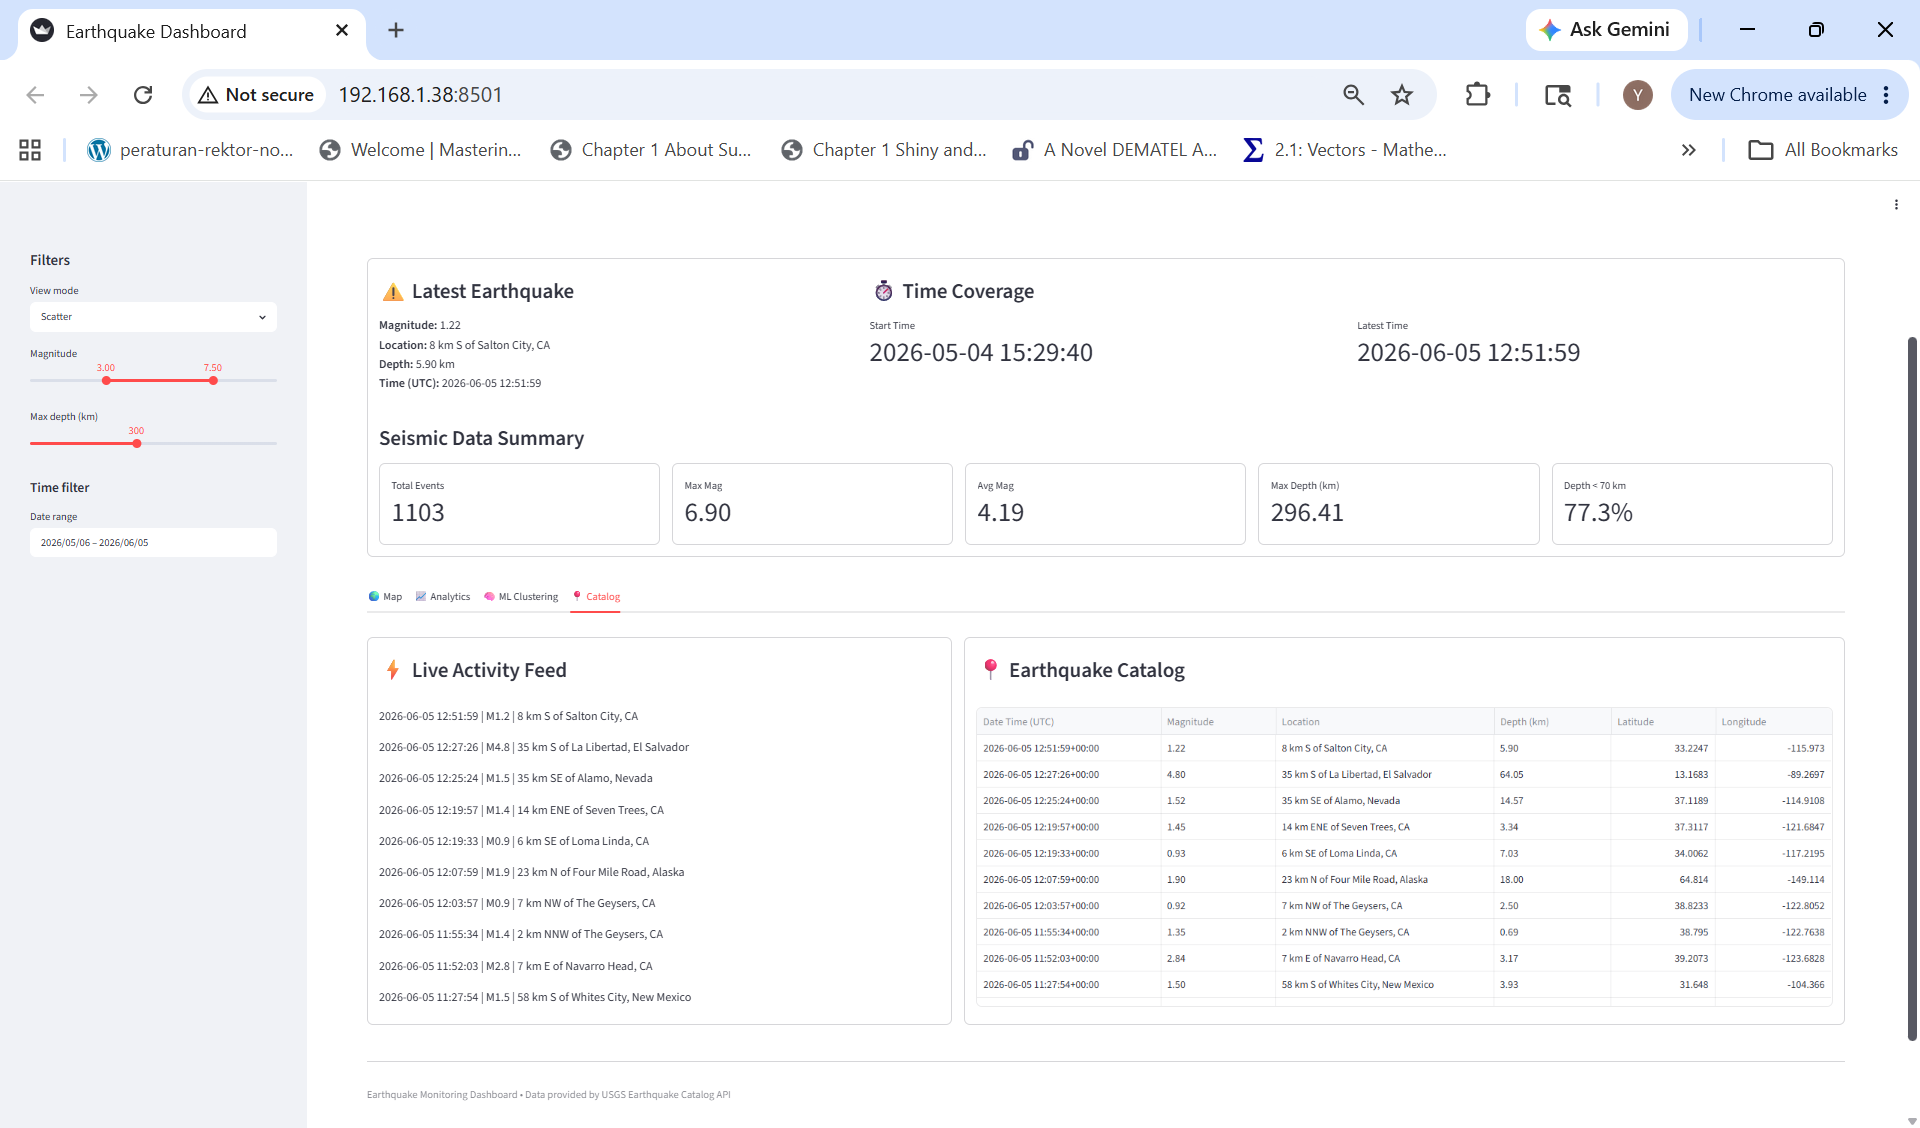
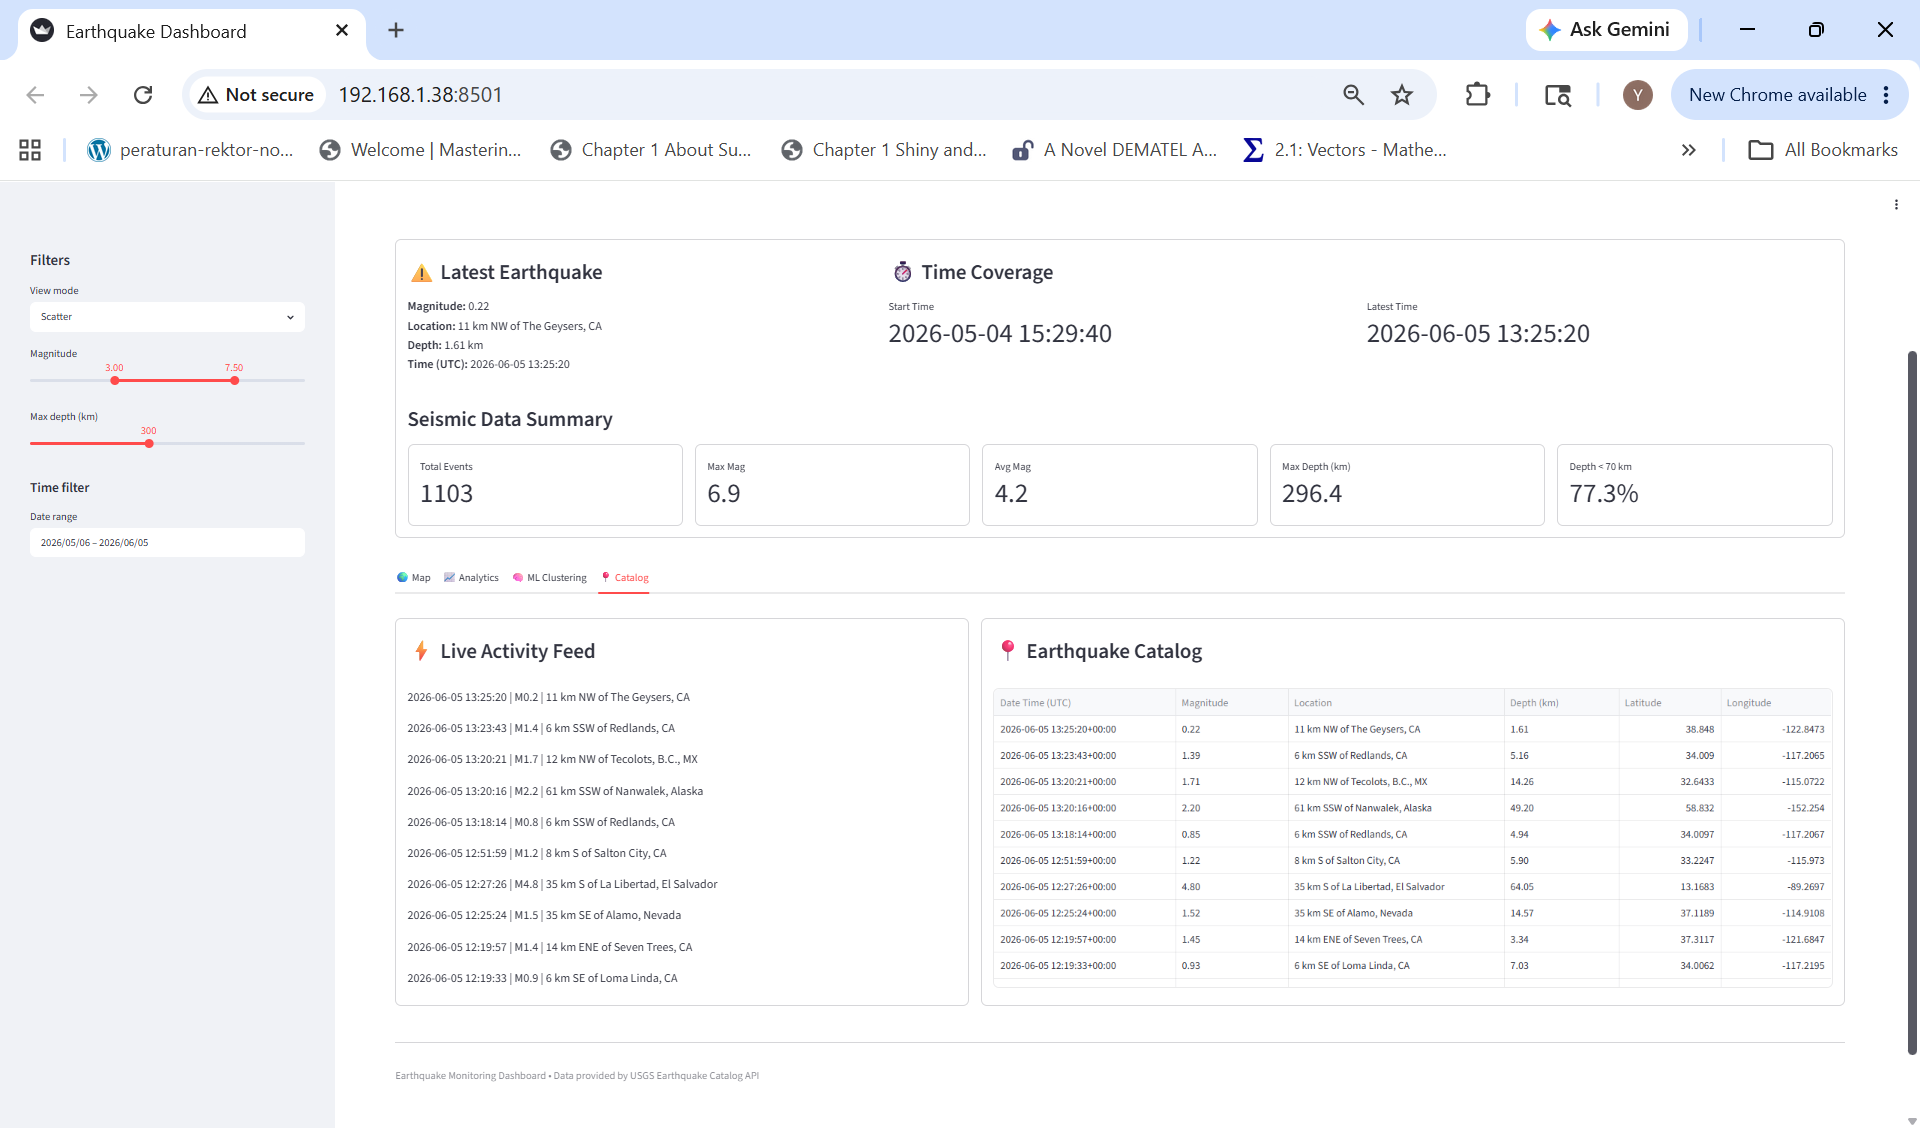
Improve KPIs and update README

diff --git a/components/kpis.py b/components/kpis.py
@@ -36,13 +36,13 @@ def render_dataset_summary(dff):
         st.metric("Total Events", len(dff))
 
     with col2:
-        st.metric("Max Mag", f"{dff['magnitude'].max():.2f}")
+        st.metric("Max Mag", f"{dff['magnitude'].max():.1f}")
 
     with col3:
-        st.metric("Avg Mag", f"{dff['magnitude'].mean():.2f}")
+        st.metric("Avg Mag", f"{dff['magnitude'].mean():.1f}")
 
     with col4:
-        st.metric("Max Depth (km)", f"{dff['depth'].max():.2f}")
+        st.metric("Max Depth (km)", f"{dff['depth'].max():.1f}")
 
     with col5:
         st.metric("Depth < 70 km", f"{(dff["depth"] < 70).mean() * 100:.1f}%")
